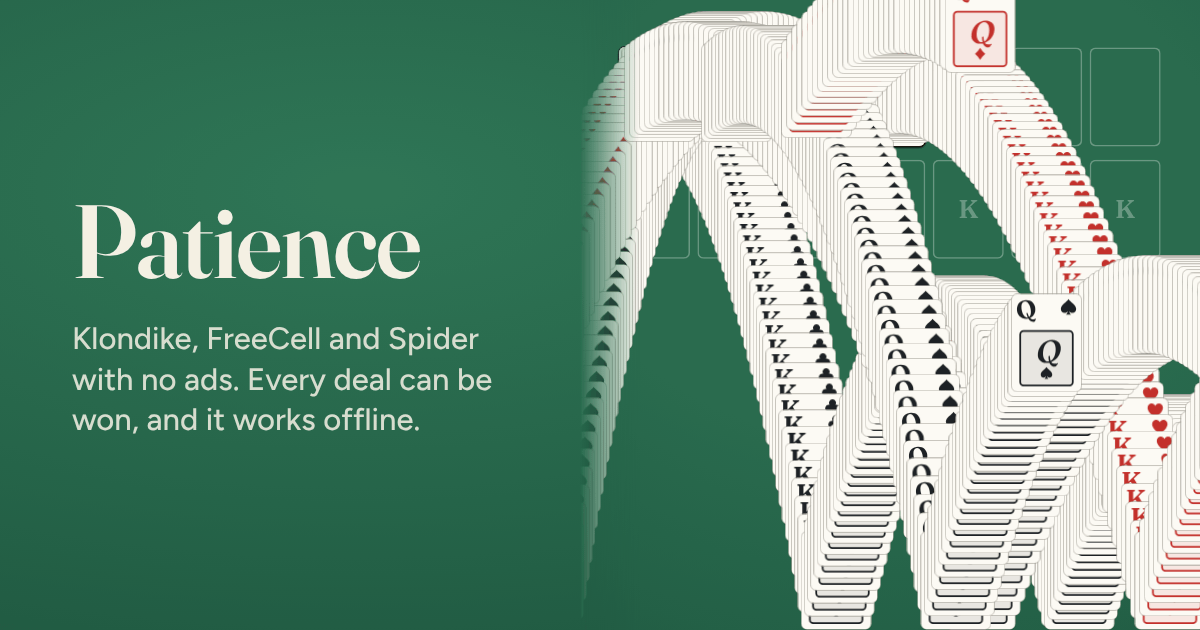
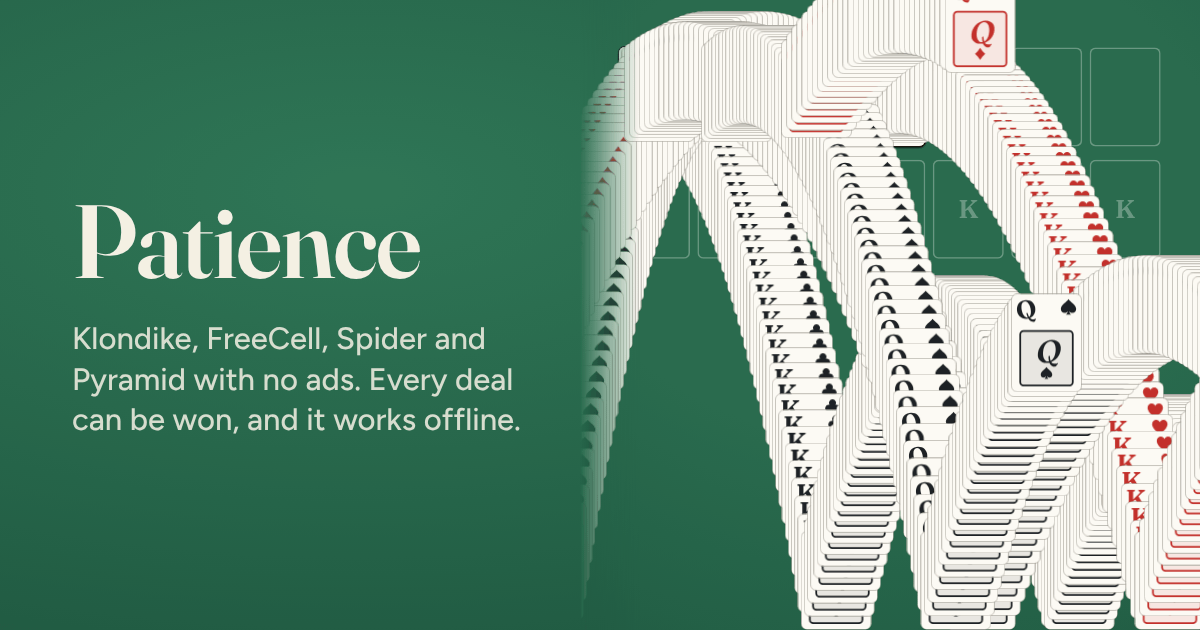
The README, its pictures and the link preview show Pyramid
The README says how Pyramid plays and which version of the rules it is, with Wikipedia's article as the source (three
times through the deck is its Par Pyramid, and clearing just the pyramid its Relaxed Pyramid), what a tap does in it,
the keyboard, the solver and its win rate, the seven records, and dev/pyramid-check.mjs. A new picture shows Pyramid
part way with Hint lighting up a pair, the New game sheet's picture shows Pyramid under Spider, and the link preview
names all four games. This finishes Mark's "A fourth game: TriPeaks, then perhaps Pyramid", built as Pyramid.

Claude-Session: https://claude.ai/code/session_01PQbLNWcaN23kNnArnK42HQ

Changed region(s): [[0.0617, 0.5127, 0.4317, 0.6937]]

diff --git a/README.md b/README.md
@@ -2,7 +2,7 @@
 
 **Play it: [patience.junkdrawer.works](https://patience.junkdrawer.works/)**
 
-**Klondike, FreeCell and Spider solitaire with no ads, no account and nothing to wait for.** Tap a card to send it where it fits or drag it there yourself, and undo as far back as you like. Every deal has been played through before it reaches you, so there's always a way to win, and the Hint button knows it.
+**Klondike, FreeCell, Spider and Pyramid solitaire with no ads, no account and nothing to wait for.** Tap a card to send it where it fits or drag it there yourself, and undo as far back as you like. Every deal has been played through before it reaches you, so there's always a way to win, and the Hint button knows it.
 
 <p align="center">
   <img src="docs/phone-klondike.png" alt="Klondike, drawing one, part way through deal 52,817: three foundations started, the 6 of diamonds on the waste, and the hint lighting up the deck to say draw a card" width="250">
@@ -12,7 +12,9 @@
   <img src="docs/phone-spider.png" alt="Spider with two suits, deal 5, after 70 moves: ten columns with long runs of spades and hearts, and two rows left to deal in the corner" width="250">
 </p>
 <p align="center">
-  <img src="docs/phone-new.png" alt="The New game sheet: By number and How to play at the top, and Today's deal under them, then Klondike drawing one or three, FreeCell, and Spider with one, two or four suits, each with a line about how it plays, and Carry on under Draw one and Play FreeCell, which have games waiting" width="250">
+  <img src="docs/phone-pyramid.png" alt="Pyramid, deal 28,714, after 19 moves: the king of diamonds taken away, the 4 of clubs on the waste, and Hint lighting up the jack of diamonds just turned up and the 2 of clubs at the foot of what's left of the pyramid, which add up to 13" width="250">
+  &nbsp;
+  <img src="docs/phone-new.png" alt="The New game sheet: By number and How to play at the top, and Today's deal under them, then Klondike drawing one or three, FreeCell, Spider with one, two or four suits, and Pyramid below them, each with a line about how it plays, and Carry on under Draw one, Play FreeCell and Two suits, which have games waiting" width="250">
   &nbsp;
   <img src="docs/phone-won.png" alt="A won Klondike game: the cards bouncing off the foundations and leaving trails across the table, behind a panel saying You won, deal 52,817, in 4:41 and 161 moves, your fastest yet by 19 seconds, 18 won of 24 and a streak of 5, then Next deal, Play this deal again and Choose a game" width="250">
 </p>
@@ -22,7 +24,8 @@
 - **Klondike, the one that came with Windows.** Build the four foundations from ace to king, one suit each. In the seven columns, cards go down in alternating colours, and only a king can go in an empty column. Draw one card at a time or three, and go through the stock as many times as you like. You can drag a card back down from a foundation onto a column if you need it there (or tap it, when Hint has lit it up).
 - **FreeCell.** All 52 cards face up from the start, four free cells to hold a card each, and any card can go in an empty column. A run moves as one when there'd be room to move it a card at a time. The deals are numbered the way the FreeCell that came with Windows numbered them, so game 617 here is game 617 there.
 - **Spider, with one, two or four suits.** Two decks in ten columns. Build down in any suit, but only a run of one suit moves together, and a run from king to ace of one suit clears away. Tap the deck to deal a row, once every column has a card, or, with fewer than ten cards left on the table, once each of them has a column to itself. Clear all eight runs to win.
-- **Tap or drag.** A tap sends cards to the best place: up to a foundation if they can go, otherwise onto a column (in FreeCell, a single card from a column goes onto a card it fits, then to a free cell, and only then to an empty column, which is kept for a run; in Spider, a card of the same suit first, and a card in a run of its own suit only onto another card of that suit). Hint lights up a card and where it goes: tap either one and the move is played. Drag a card, or a run, anywhere the rules allow, and the place it would land lights up softly as you hold it there; drop it somewhere it doesn't fit and it slides back, saying why when it's a rule you mightn't know yet: only a king can go in an empty Klondike column, how many cards FreeCell has room to move together, and (once a deal) that only a run of one suit moves together in Spider.
+- **Pyramid.** Twenty-eight cards face up in a pyramid of seven rows, each row half covering the one above. Take away pairs that add up to 13 (a jack counts 11 and a queen 12, so a queen goes with an ace), and kings on their own, but only cards with nothing on them. Tap the deck to turn a card up: it can pair with a card in the pyramid or with the top card of the waste beside it, where the card turned up before it went. You can go through the deck three times, and the empty deck says how many more. Clear the pyramid to win, whatever is left in the deck. These are the rules in [Wikipedia's Pyramid article](https://en.wikipedia.org/wiki/Pyramid_(solitaire)): its three times through the deck is the version it calls Par Pyramid, where the waste is turned over and dealt again twice, and clearing just the pyramid is what it calls Relaxed Pyramid.
+- **Tap or drag.** A tap sends cards to the best place: up to a foundation if they can go, otherwise onto a column (in FreeCell, a single card from a column goes onto a card it fits, then to a free cell, and only then to an empty column, which is kept for a run; in Spider, a card of the same suit first, and a card in a run of its own suit only onto another card of that suit; in Pyramid, a tap on a king takes it away, and a tap on any other card picks it, standing it up a little, and a tap on the card it pairs with takes them both). Hint lights up a card and where it goes: tap either one and the move is played. Drag a card, or a run, anywhere the rules allow, and the place it would land lights up softly as you hold it there; drop it somewhere it doesn't fit and it slides back, saying why when it's a rule you mightn't know yet: only a king can go in an empty Klondike column, how many cards FreeCell has room to move together, (once a deal) that only a run of one suit moves together in Spider, and, in Pyramid, that a pair adds up to 13 and that a covered card has to wait.
 - **A first word.** The first time you're dealt each game on a phone, one line says how it plays, with a How to play button that opens its rules in the menu. The New game sheet has a How to play button too.
 - **Undo all the way back,** even after closing the page and coming back to it.
 - **A game waiting for each way of playing.** Try FreeCell in the middle of a Klondike game and your Klondike game waits where you left it, with its Undo and its clock: choose Klondike again in New game, where it says Carry on, and you're back in it. Only a new deal of the same way counts a game you're part way through as a loss.
@@ -32,9 +35,9 @@
 - **A hint that knows the way.** Hint asks the same solver for the next move from where you are, and while you do what it says, it keeps to the way it found, even when you try something else, ask it there, and undo back. When it's drawing for a card further down the deck, it says which one. If an earlier move has left no way to win, it says so, and Take me back goes back as many moves as it takes to where the game can still be won, says how many, and shows the way on from there; Undo beside it goes back one move at a time. And once no move you could make would ever help, the game says so without being asked, with the same Take me back.
 - **Cards go up by themselves** in Klondike and FreeCell once nothing on the table could still need them, and when the rest is in order the game finishes itself. Drawing one, that's as soon as every card in the columns is face up, turning cards from the deck as it goes. You can switch the first part off.
 - **The bouncing cards** when you win, as tradition requires.
-- **Your record** for each of the six ways of playing: games played, won, win rate, streak, best streak, fastest win, fewest moves, and Today's deal: how long it took today, and days in a row. Clear this record, under it, starts one way of playing again from nothing, after asking once. Save a copy of your record, at the foot of the menu, gives you a small file, named something like patience-record-2026-11-23.json, with your record and settings in it; Bring back a record, on a new phone or after your browser has cleared its data, adds it to the record there and brings the settings back. No record is ever added twice, even one that came across inside another phone's copy.
+- **Your record** for each of the seven ways of playing: games played, won, win rate, streak, best streak, fastest win, fewest moves, and Today's deal: how long it took today, and days in a row. Clear this record, under it, starts one way of playing again from nothing, after asking once. Save a copy of your record, at the foot of the menu, gives you a small file, named something like patience-record-2026-11-23.json, with your record and settings in it; Bring back a record, on a new phone or after your browser has cleared its data, adds it to the record there and brings the settings back. No record is ever added twice, even one that came across inside another phone's copy.
 - **Settings:** only deal games that can be won, send cards up by themselves, show the time and moves, four-colour suits (clubs green, diamonds blue), the deck on the left instead of under your right thumb, and the look: light or dark, or whatever your phone is set to.
-- **On a keyboard,** you can play every move. The arrow keys choose a card or a place, with a ring round it, and 1 to 9 and 0 jump to a column. Enter does what a tap there would; Space picks the cards up, and again puts them down where the arrows have taken them, outlining the place while they can go there; Escape puts them back. Space on the deck, or with nothing chosen, uses the deck in Klondike and Spider (so does D). Z undoes, H gives a hint, Enter plays it and N opens New game (Enter there deals another of the same).
+- **On a keyboard,** you can play every move. The arrow keys choose a card or a place, with a ring round it, and 1 to 9 and 0 jump to a column. Enter does what a tap there would; Space picks the cards up, and again puts them down where the arrows have taken them, outlining the place while they can go there; Escape puts them back. In Pyramid the arrows go along the pyramid's rows and up and down between them, and Enter picks a card and pairs it, as a tap does. Space on the deck, or with nothing chosen, uses the deck in Klondike, Spider and Pyramid (so does D). Z undoes, H gives a hint, Enter plays it and N opens New game (Enter there deals another of the same).
 - No ads, no account and no server. Your games, your record and your settings stay in your browser. It works offline and installs to a phone's home screen. On an iPhone, installing it keeps your record safest: Safari clears what a site has saved after seven days of using Safari without opening it, and an app on the home screen keeps its own count.
 
 ## Running it
@@ -51,6 +54,7 @@ npm run build                     # bundles everything into dist/patience.html, 
 node dev/solver-check.mjs 200 3   # solves 200 Klondike deals drawing three, and replays every win through the rules
 node dev/freecell-check.mjs 100   # the same for FreeCell, checking every move by its own rules
 node dev/spider-check.mjs s2 30   # the same for Spider with two suits (s1, s2 or s4)
+node dev/pyramid-check.mjs 100    # the same for Pyramid
 node dev/ready-deals.mjs k3 50    # rewrites the list of deals checked in advance for one way of playing (--check checks them all)
 node dev/daily-deals.mjs all 366  # makes the lists for Today's deal 366 days long, keeping the days already there (--check checks them all)
 node dev/hint-check.mjs k3 50     # plays 50 deals doing just what Hint says, and lists any it doesn't win (with `on daily` after it, Today's deals)
@@ -65,6 +69,7 @@ To put it online with GitHub Pages: **Settings → Pages → Build and deploymen
 - `js/solvers/best-first.js`: a best-first search shared by the FreeCell and Spider solvers, which always looks next at the most promising position found so far. Spider's keeps each position it has still to look at as a short line of characters and builds the table again when it gets to it, so even a four-suit search that runs to its limit takes tens of megabytes, not hundreds.
 - `js/solvers/freecell.js`: the FreeCell solver. In the 100,000 positions it gets to check a deal before it reaches you, it wins 98 of the first 100 Windows deals in about a tenth of a second each (99 in the 200,000 Hint gets), and proves game 11982, the famous one, can't be won.
 - `js/solvers/spider.js`: the Spider solver. In the 120,000 positions it gets to check a deal before it reaches you, it wins nearly every one-suit deal and nine in ten two-suit deals; four-suit deals are harder, about one in four. To be quick it leaves out moves that seldom help, like moving only part of a run, so before Hint says a game can't be won it looks again with every move.
+- `js/solvers/pyramid.js`: the Pyramid solver. A depth-first search that sees the whole deck, offers every card the deck can still turn up as a move of its own, and gives up on a position as soon as a card in the pyramid has nothing left to pair with (every card of the rank it needs gone, or covering it, or under it). In the 100,000 positions it gets to check a deal before it reaches you, it wins about 65% of deals and proves about 20% can't be won.
 - `js/deals.js`: runs a solver a slice at a time, between frames, to find winnable deals and hints, and for Take me back, the last move a game could still be won from.
 - `js/table.js`: the table. Card sizes and layout for whichever game it is, the movement, tapping and dragging, and choosing and moving cards by keyboard.
 - `js/win.js`: the bouncing cards.
